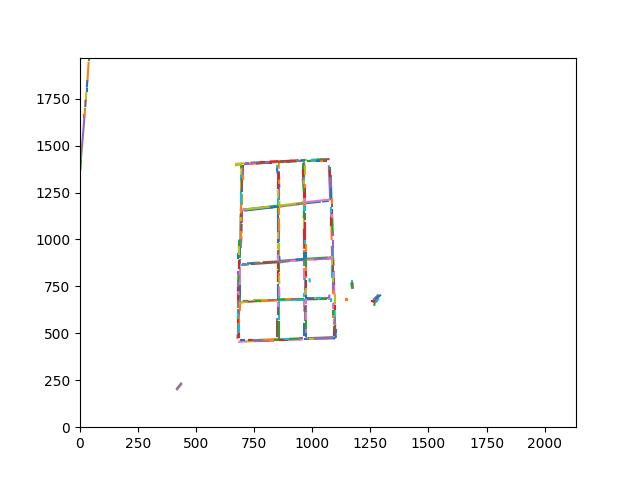
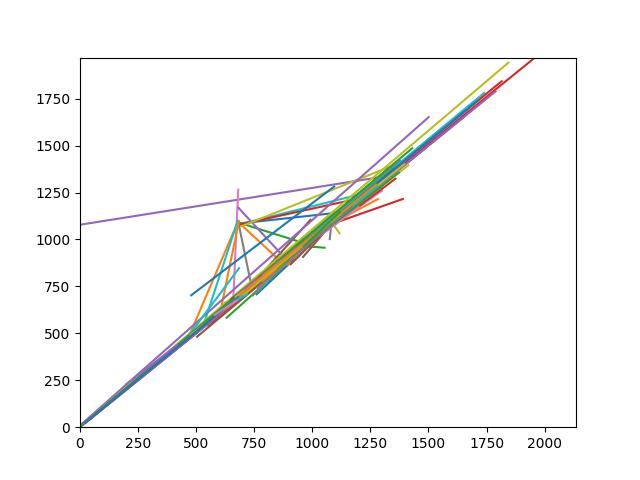
feat: add fit_line2 function

diff --git a/cv2_test.py b/cv2_test.py
@@ -4,66 +4,64 @@
 # 取中轴
 import copy
 import math
+from typing import Dict, List
 
 import cv2
 import numpy as np
 import matplotlib.pyplot as plt
 
-
-def fit_line(img, lines, color=(0, 255, 0), thickness=2):
+def fit_line2(lines: np.ndarray, pos_offset=50, angle_offset=0.2, thickness=2):
     """
-    img (np.array): 原始图像
-    lines (list): 霍夫直线结果线段
-    thickness (int): 线宽度
+    拟合直线
+    Args:
+        lines (list): 霍夫直线结果线段
+        pos_offset (int): 线段允许偏移量
+        angle_offset (float): 线段允许偏移角度
+        thickness (int): 线宽
     """
-    line_img = np.zeros((img.shape[0], img.shape[1], 3), dtype=np.uint8)
+    # 已归类的线段
+    line_group: List[List] = []
+    # 已归类的线段偏移值
+    line_offset: List[tuple] = []
+    # 最终线段
+    result: List = []
+    # 未能归类的线段
+    line_unfind: List = []
 
-    right_x = []
-    right_y = []
-    left_x = []
-    left_y = []
     for line in lines:
         for x1, y1, x2, y2 in line:
-            slope = ((y2-y1)/(x2-x1))
-            if slope <= -0.2:
-                left_x.extend((x1, x2))
-                left_y.extend((y1, y2))
+            # 水平线段
+            if x1 == x2:
+                a = 0
+            else:
+                a = (y2 - y1) / (x2 - x1)
+            b = y1 - a * x1
+            is_find_same_line = False
+            for index, offset in enumerate(line_offset):
+                if abs(a - offset[0]) < angle_offset and abs(b - offset[1]) < pos_offset:
+                    line_group[index].append(line)
+                    is_find_same_line = True
+                    break
+            if not is_find_same_line:
+                line_group.append([line])
+                line_offset.append((a, b))
+    for index, group_item in enumerate(line_group):
+        min_x, max_x = 0, 0
+        for line in group_item:
+            for x1, y1, x2, y2 in line:
+                if not min_x:
+                    min_x = min(x1, x2)
+                    max_x = max(x1, x2)
+                else:
+                    min_x = min(min_x, min(x1, x2))
+                    max_x = max(max_x, max(x1, x2))
+        a, b = line_offset[index]
+        max_y = int(a * max_x + b)
+        min_y = int(a * min_x + b)
+        result.append([(min_x, min_y), (max_x, max_y)])
+        # cv2.line(result, (min_x, min_y), (max_x, max_y), thickness)
 
-            elif slope >= 0.2:
-                right_x.extend((x1, x2))
-                right_y.extend((y1, y2))
-
-    if left_x and left_y:
-        left_fit = np.polyfit(left_x, left_y, 1)
-        left_line = np.poly1d(left_fit)
-
-        # if not self.x1L:
-        x1L = int(img.shape[1] * 0.1)
-
-        y1L = int(left_line(x1L))
-
-        # if not self.x2L:
-        x2L = int(img.shape[1] * 0.4)
-
-        y2L = int(left_line(x2L))
-        cv2.line(line_img, (x1L, y1L), (x2L, y2L), color, thickness)
-
-    if right_x and right_y:
-        right_fit = np.polyfit(right_x, right_y, 1)
-        right_line = np.poly1d(right_fit)
-
-        # if not self.x1R:
-        x1R = int(img.shape[1] * 0.6)
-
-        y1R = int(right_line(x1R))
-
-        # if not self.x2R:
-        x2R = int(img.shape[1] * 0.9)
-
-        y2R = int(right_line(x2R))
-        cv2.line(line_img, (x1R, y1R), (x2R, y2R), color, thickness)
-
-    return line_img
+    return result
 
 
 img = cv2.imread('./2.jpg')
@@ -96,6 +94,15 @@ maxLineGap = 5
 # 直线检测
 lines = cv2.HoughLinesP(edges, 1, np.pi / 180, 20, np.array([]), minLineLength, maxLineGap)
 
+print(type(lines))
+
+lines = fit_line2(lines)
+
+for line in lines:
+    plt.plot(line[0], line[1])
+
+# cv2.imwrite('./2_result.jpg', lines)
+
 # print(type(lines))
 # print(lines)
 # lines = fit_line(img, lines)
@@ -104,20 +111,20 @@ lines = cv2.HoughLinesP(edges, 1, np.pi / 180, 20, np.array([]), minLineLength, 
 # print(lines)
 # print('----------------')
 
-def line(y1, x1, y2, x2):
-    x = [x1, x2]
-    y = [y1, y2]
-    plt.plot(x, y)
+# def line(y1, x1, y2, x2):
+#     x = [x1, x2]
+#     y = [y1, y2]
+#     plt.plot(x, y)
 
-result = []
-for i in range(len(lines)):
-    for x1, y1, x2, y2 in lines[i]:
-        line(y1, x1, y2, x2)
-        result.append([(x1, y1), (x2, y2)])
-        cv2.line(img, (x1, y1), (x2, y2), (i * 20, 100 + i * 20, 255), 1)
+# result = []
+# for i in range(len(lines)):
+#     for x1, y1, x2, y2 in lines[i]:
+#         line(y1, x1, y2, x2)
+#         result.append([(x1, y1), (x2, y2)])
+#         cv2.line(img, (x1, y1), (x2, y2), (i * 20, 100 + i * 20, 255), 1)
 
 
-print(len(result), result)
+# print(len(result), result)
 # 设置范围
 plt.xlim(0, w)
 plt.ylim(0, h)
